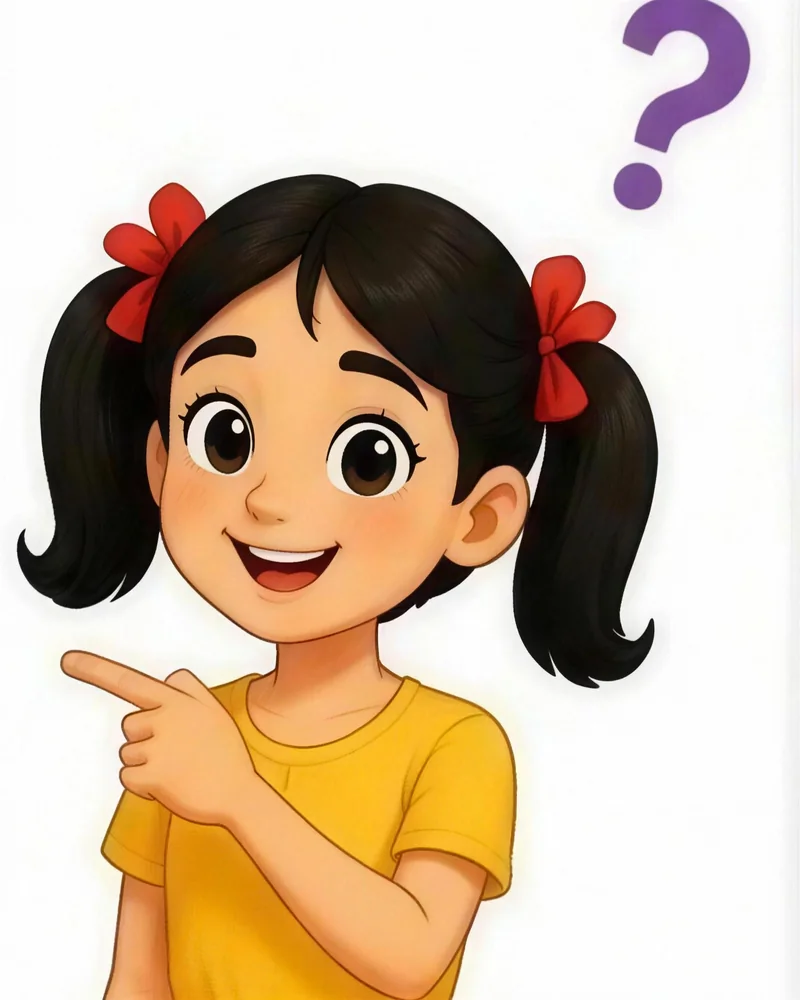
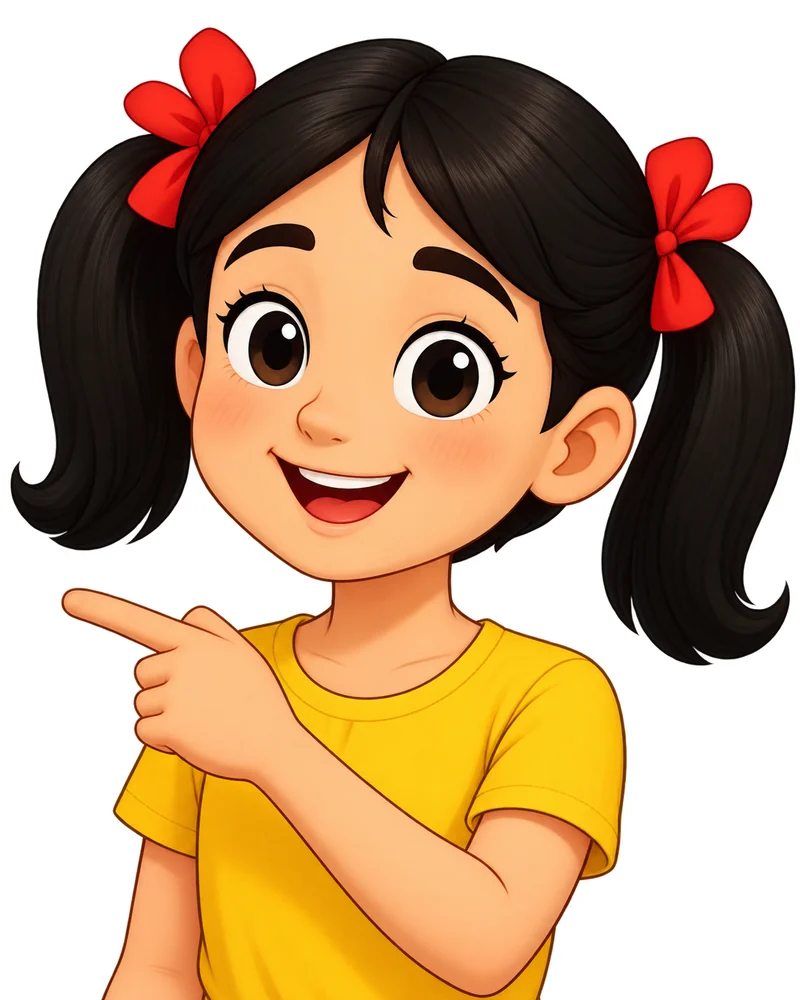
Китайский, урок 2: 10 перерисованных картинок (чёткие), сброс кэша v3/v4
Claude-Session: https://claude.ai/code/session_01CqsXcuoxjYuGtvmQYJ3k2f

diff --git a/chinese/how-are-you/index.html b/chinese/how-are-you/index.html
@@ -399,7 +399,7 @@ function play(id,onend){ if(current){current.pause();current.currentTime=0;} con
 /* карточки */
 function cardHTML(w,i,withText=true){
   return `<button class="card" data-id="${w.id}" style="--i:${i}" aria-label="${w.ru}">${SPK}
-    <img src="img/${w.id}.webp?v=2" alt="" loading="lazy">
+    <img src="img/${w.id}.webp?v=3" alt="" loading="lazy">
     ${withText?`<span class="zh" lang="zh">${w.zh}</span><span class="py">${w.py}</span><span class="ru">${w.ru}</span>`:`<span class="cap"><span class="zh" lang="zh">${w.zh}</span><span class="py big">${w.py}</span><span class="ru">${w.ru}</span></span>`}
   </button>`;
 }
@@ -435,7 +435,7 @@ const lines=SONG.map(k=>EXTRA[k]||byId[k]); let lineRow=[];
   window.ROWS=rows; lineRow=new Array(lines.length); rows.forEach((r,k)=>r.idx.forEach(i=>lineRow[i]=k));
   lyricsEl.innerHTML=rows.map((r,k)=>{const w=r.w; const pic=(w.id==='song_hello'?'q_howareyou':w.id==='song_thanks'?'happy':w.id);
     const dots=r.idx.length>1?`<span class="rep" aria-label="${r.idx.length} раза">${r.idx.map(()=>'<i></i>').join('')}</span>`:'';
-    return `<div class="line" data-k="${k}"><img src="img/${pic}.webp?v=2" alt=""><div><div class="zh" lang="zh">${w.zh}${dots}</div><div class="py">${w.py}</div><div class="ru">${w.ru}</div></div></div>`;}).join('');
+    return `<div class="line" data-k="${k}"><img src="img/${pic}.webp?v=3" alt=""><div><div class="zh" lang="zh">${w.zh}${dots}</div><div class="py">${w.py}</div><div class="ru">${w.ru}</div></div></div>`;}).join('');
 })();
 const playBtn=document.getElementById('playSong'), stopBtn=document.getElementById('stopSong'), tempo=document.getElementById('tempo');
 let singing=false, songAudio=null, songTimes=null;

diff --git a/chinese/whats-your-name/index.html b/chinese/whats-your-name/index.html
@@ -398,7 +398,7 @@ function play(id,onend){ if(current){current.pause();current.currentTime=0;} con
 /* карточки */
 function cardHTML(w,i,withText=true){
   return `<button class="card" data-id="${w.id}" style="--i:${i}" aria-label="${w.ru}">${SPK}
-    <img src="img/${w.id}.webp?v=2" alt="" loading="lazy">
+    <img src="img/${w.id}.webp?v=3" alt="" loading="lazy">
     ${withText?`<span class="zh" lang="zh">${w.zh}</span><span class="py">${w.py}</span><span class="ru">${w.ru}</span>`:`<span class="cap"><span class="zh" lang="zh">${w.zh}</span><span class="py big">${w.py}</span><span class="ru">${w.ru}</span></span>`}
   </button>`;
 }
@@ -434,7 +434,7 @@ const lines=SONG.map(k=>EXTRA[k]||byId[k]); let lineRow=[];
   window.ROWS=rows; lineRow=new Array(lines.length); rows.forEach((r,k)=>r.idx.forEach(i=>lineRow[i]=k));
   lyricsEl.innerHTML=rows.map((r,k)=>{const w=r.w; const pic=(w.id==='song_me'?'my_name':w.id);
     const dots=r.idx.length>1?`<span class="rep" aria-label="${r.idx.length} раза">${r.idx.map(()=>'<i></i>').join('')}</span>`:'';
-    return `<div class="line" data-k="${k}"><img src="img/${pic}.webp?v=2" alt=""><div><div class="zh" lang="zh">${w.zh}${dots}</div><div class="py">${w.py}</div><div class="ru">${w.ru}</div></div></div>`;}).join('');
+    return `<div class="line" data-k="${k}"><img src="img/${pic}.webp?v=3" alt=""><div><div class="zh" lang="zh">${w.zh}${dots}</div><div class="py">${w.py}</div><div class="ru">${w.ru}</div></div></div>`;}).join('');
 })();
 const playBtn=document.getElementById('playSong'), stopBtn=document.getElementById('stopSong'), tempo=document.getElementById('tempo');
 let singing=false, songAudio=null, songTimes=null;

diff --git a/chinese/slides/index.html b/chinese/slides/index.html
@@ -144,7 +144,7 @@ function render(){
     slide.innerHTML=`<div class="parts">${w.parts.map((p,k)=>`<button class="part" data-id="${p.id}" style="--k:${k}"><div class="zh" lang="zh">${p.zh}</div><div class="py">${p.py}</div><div class="ru">${p.ru}</div></button>`).join('')}</div>`;
     revealed=true;
   } else {
-    slide.innerHTML=`<div class="pic" id="pic"><img src="${BASE}img/hd/${w.id}.webp?v=3" alt="${w.ru}"></div>
+    slide.innerHTML=`<div class="pic" id="pic"><img src="${BASE}img/hd/${w.id}.webp?v=4" alt="${w.ru}"></div>
       <div class="txt"><div class="zh" lang="zh" style="--n:${[...w.zh].length}">${chars(w.zh)}</div><div class="py">${w.py}</div><div class="ru">${w.ru}</div></div>`;
     revealed=!guess; slide.classList.toggle('hide',guess);
   }
@@ -152,7 +152,7 @@ function render(){
   [...dots.children].forEach((d,k)=>d.classList.toggle('on',k===i));
   $('count').textContent=`${i+1} / ${W.length}`;
   if(revealed && !w.parts) setTimeout(()=>say(w.id,slide),380);
-  W.slice(i+1,i+3).forEach(n=>{ if(!n.parts){ new Image().src=`${BASE}img/hd/${n.id}.webp?v=3`; snd(n.id); } });
+  W.slice(i+1,i+3).forEach(n=>{ if(!n.parts){ new Image().src=`${BASE}img/hd/${n.id}.webp?v=4`; snd(n.id); } });
 }
 function reveal(){ revealed=true; slide.classList.remove('hide'); say(W[i].id,slide); }
 function go(d){ if(d>0 && !revealed){ reveal(); return; } const n=i+d; if(n<0||n>=W.length) return; dir=d; i=n; render(); }

diff --git a/chinese/finale/finale.js b/chinese/finale/finale.js
@@ -19,7 +19,7 @@
     <div class="controls"><button class="btn primary" id="finPlay"><svg viewBox="0 0 24 24"><path d="M8 5v14l11-7z"/></svg>Петь</button>
       <button class="btn" id="finStage" hidden><svg viewBox="0 0 24 24"><path d="M5 5h5V3H3v7h2V5zm14 0v5h2V3h-7v2h5zM5 19v-5H3v7h7v-2H5zm14 0h-5v2h7v-7h-2v5z"/></svg>На весь экран</button>
       <button class="btn" id="finStop" hidden><svg viewBox="0 0 24 24"><path d="M6 6h12v12H6z"/></svg>Стоп</button></div>
-    <div class="lyrics" id="finLyrics">${LINES.map((l,i)=>`<div class="line" data-i="${i}"><img src="../whats-your-name/img/wave.webp?v=2" alt=""><div><div class="zh" lang="zh">${l.zh}</div><div class="py">${l.py}</div><div class="ru">${l.ru}</div></div></div>`).join('')}</div>
+    <div class="lyrics" id="finLyrics">${LINES.map((l,i)=>`<div class="line" data-i="${i}"><img src="../whats-your-name/img/wave.webp?v=3" alt=""><div><div class="zh" lang="zh">${l.zh}</div><div class="py">${l.py}</div><div class="ru">${l.ru}</div></div></div>`).join('')}</div>
     <p class="sub" style="margin:0">Нажми «Петь» — строчки подсвечиваются под музыку.</p>
   </div></section>`;
   const lyr=document.getElementById('finLyrics'), playB=document.getElementById('finPlay'), stopB=document.getElementById('finStop');
